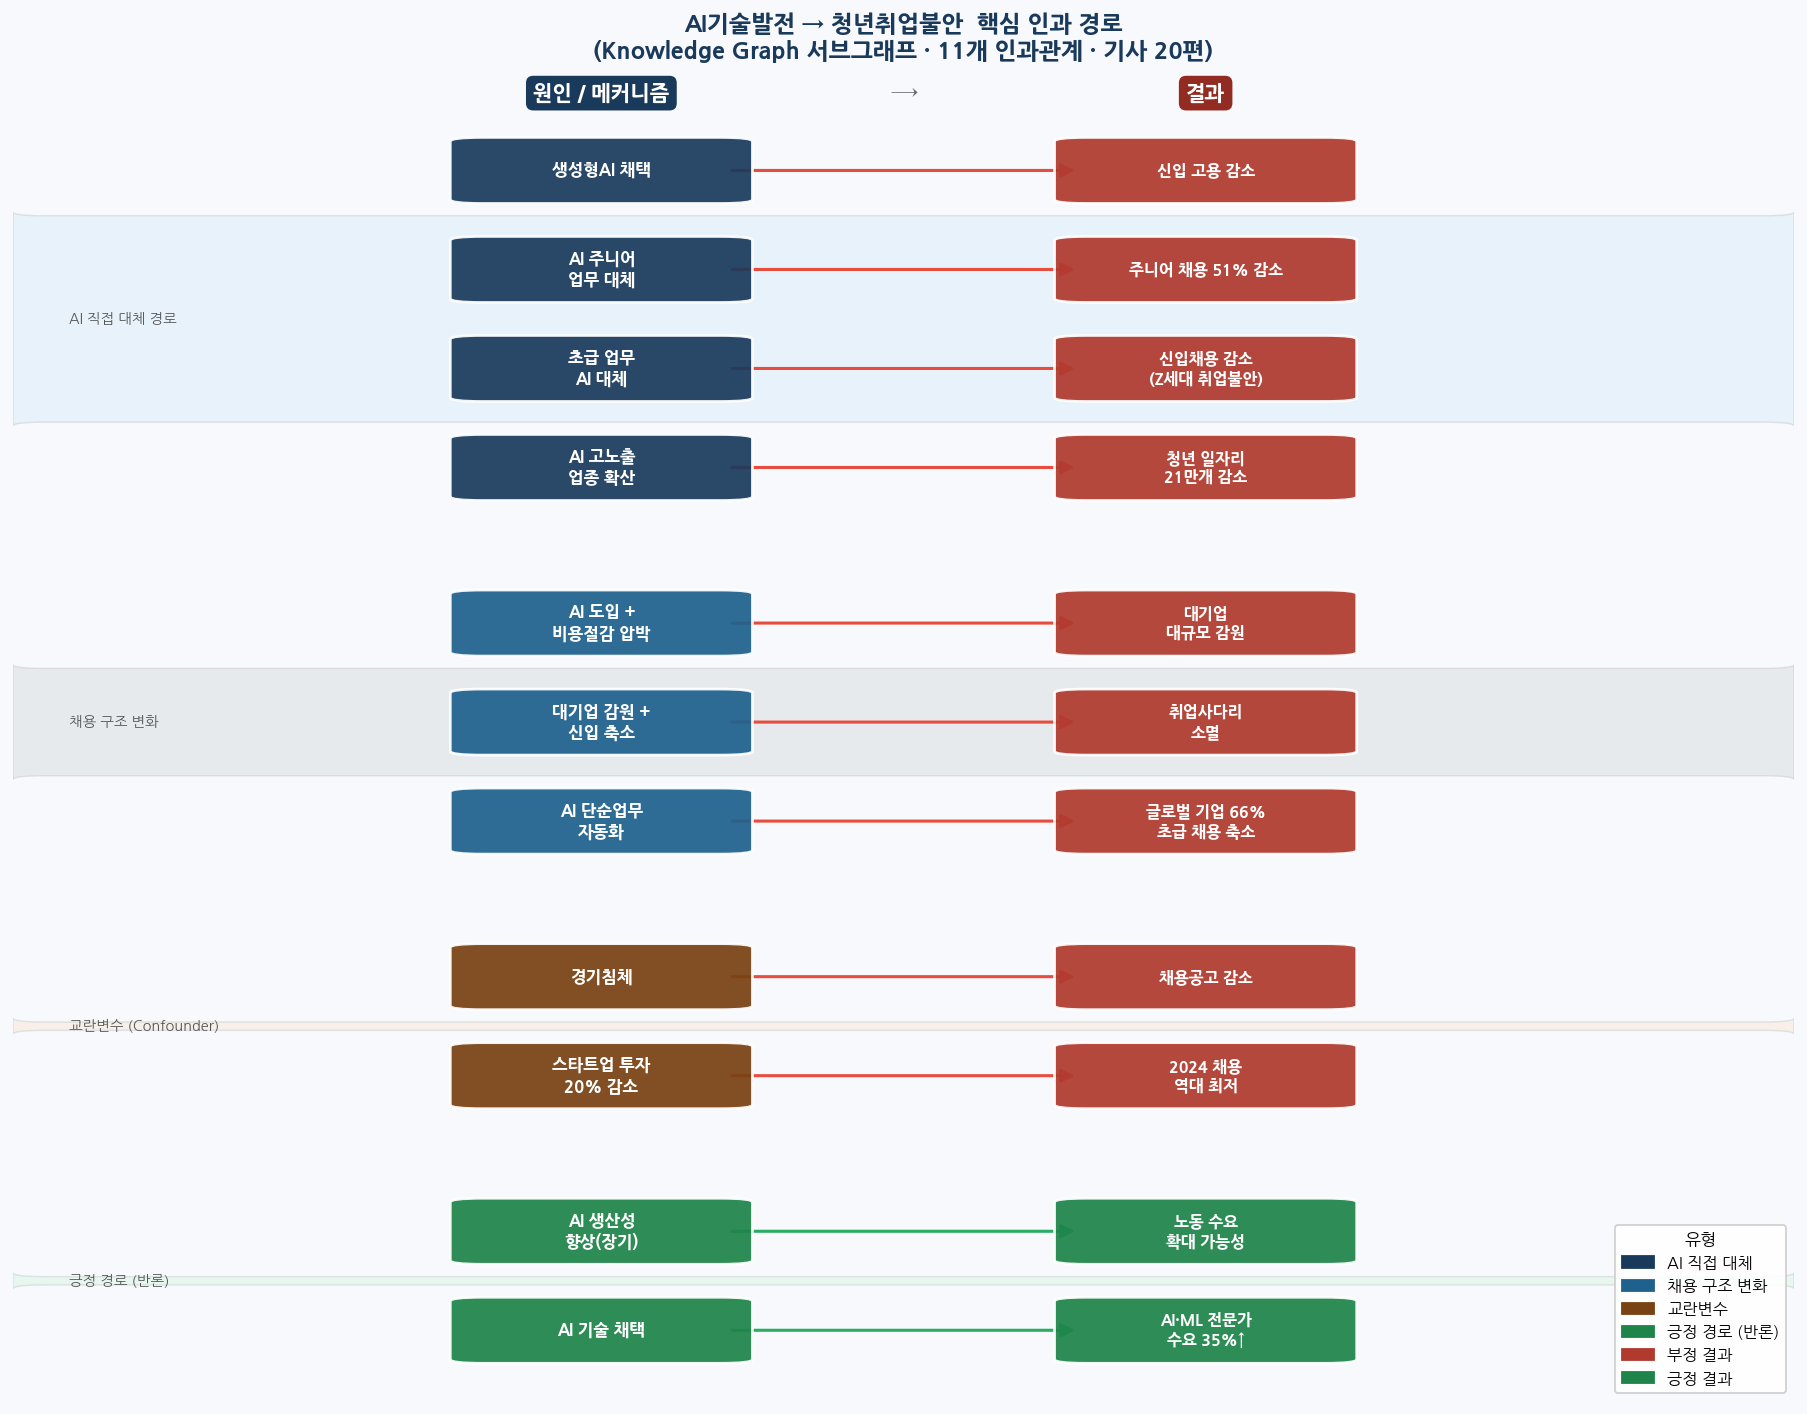
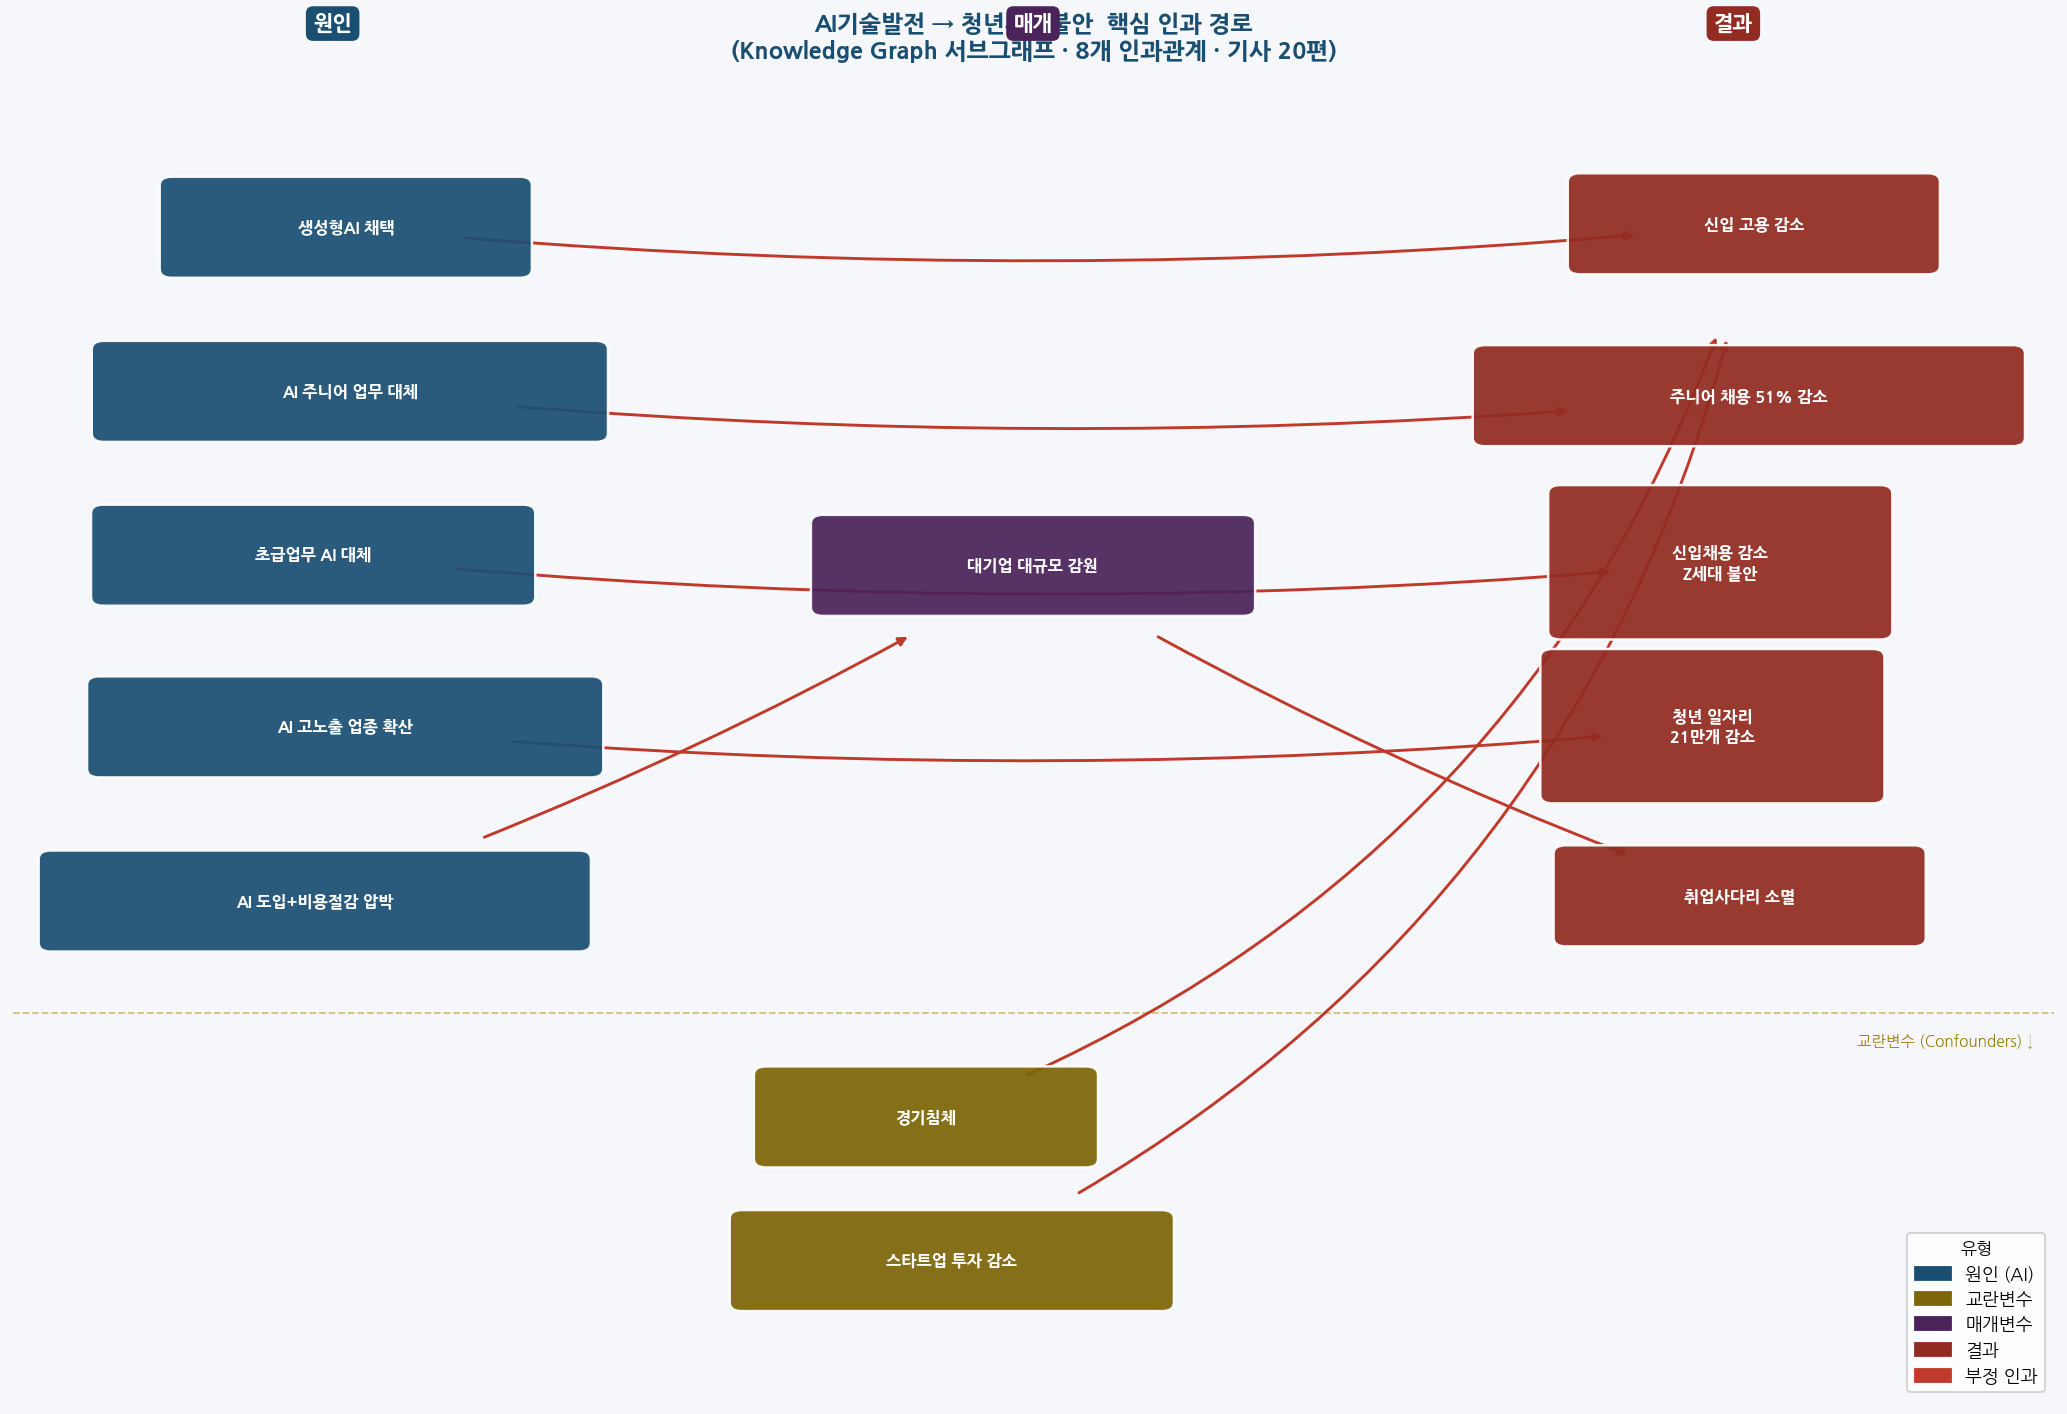
Redraw subgraph: text-fitted boxes, readable labels

diff --git a/draw_subgraph.py b/draw_subgraph.py
@@ -1,154 +1,173 @@
 """
-PPT용 서브그래프 — 고정 레이아웃 (14×11 인치)
+PPT용 서브그래프 — 노드를 텍스트 길이에 맞는 박스로 그리기
 """
-import koreanize_matplotlib  # noqa: F401
+import koreanize_matplotlib  # noqa
 import matplotlib.pyplot as plt
 import matplotlib.patches as mpatches
+import networkx as nx
+import numpy as np
 
-OUT = "/home/eunji/project/knowledge_graph/subgraph_ppt.png"
+OUT   = "/home/eunji/project/knowledge_graph/subgraph_ppt.png"
+KFONT = "NanumGothic"
 
-# ── 엣지 정의: (원인, 결과, 폴라리티, 그룹) ───────────────────────
-EDGES = [
-    # AI 직접 대체
-    ("생성형AI 채택",          "신입 고용 감소",                "neg", "AI"),
-    ("AI 주니어\n업무 대체",   "주니어 채용 51% 감소",          "neg", "AI"),
-    ("초급 업무\nAI 대체",     "신입채용 감소\n(Z세대 취업불안)","neg", "AI"),
-    ("AI 고노출\n업종 확산",   "청년 일자리\n21만개 감소",       "neg", "AI"),
-    # 채용 구조 변화
-    ("AI 도입 +\n비용절감 압박","대기업\n대규모 감원",           "neg", "채용"),
-    ("대기업 감원 +\n신입 축소","취업사다리\n소멸",              "neg", "채용"),
-    ("AI 단순업무\n자동화",     "글로벌 기업 66%\n초급 채용 축소","neg","채용"),
-    # 교란변수
-    ("경기침체",               "채용공고 감소",                 "neg", "conf"),
-    ("스타트업 투자\n20% 감소", "2024 채용\n역대 최저",          "neg", "conf"),
-    # 긍정 반론
-    ("AI 생산성\n향상(장기)",   "노동 수요\n확대 가능성",         "pos", "pos"),
-    ("AI 기술 채택",           "AI·ML 전문가\n수요 35%↑",       "pos", "pos"),
+# ── 노드 (라벨, 레이어, 역할) ─────────────────────────────────────
+NODES = [
+    ("생성형AI 채택",          0, "cause"),
+    ("AI 주니어 업무 대체",    0, "cause"),
+    ("초급업무 AI 대체",       0, "cause"),
+    ("AI 고노출 업종 확산",    0, "cause"),
+    ("AI 도입+비용절감 압박",  0, "cause"),
+    ("대기업 대규모 감원",     1, "med"),
+    ("신입 고용 감소",         2, "out"),
+    ("주니어 채용 51% 감소",   2, "out"),
+    ("신입채용 감소\nZ세대 불안", 2, "out"),
+    ("청년 일자리\n21만개 감소", 2, "out"),
+    ("취업사다리 소멸",        2, "out"),
+    ("경기침체",               3, "conf"),
+    ("스타트업 투자 감소",     3, "conf"),
 ]
 
-# ── 색상 ──────────────────────────────────────────────────────────
-CAUSE_COLOR = {"AI": "#1A3A5C", "채용": "#1F618D",
-               "conf": "#784212", "pos": "#1E8449"}
-EFF_COLOR   = {"neg": "#B03A2E", "pos": "#1E8449"}
-ARR_COLOR   = {"neg": "#E74C3C", "pos": "#27AE60"}
-BG_COLOR    = {"AI": "#D6EAF8", "채용": "#D5D8DC",
-               "conf": "#FAE5D3", "pos": "#D5F5E3"}
-GRP_LABEL   = {"AI": "AI 직접 대체 경로", "채용": "채용 구조 변화",
-               "conf": "교란변수 (Confounder)", "pos": "긍정 경로 (반론)"}
+EDGES = [
+    ("생성형AI 채택",        "신입 고용 감소",          "neg"),
+    ("AI 주니어 업무 대체",  "주니어 채용 51% 감소",    "neg"),
+    ("초급업무 AI 대체",     "신입채용 감소\nZ세대 불안","neg"),
+    ("AI 고노출 업종 확산",  "청년 일자리\n21만개 감소","neg"),
+    ("AI 도입+비용절감 압박","대기업 대규모 감원",       "neg"),
+    ("대기업 대규모 감원",   "취업사다리 소멸",          "neg"),
+    ("경기침체",             "신입 고용 감소",           "neg"),
+    ("스타트업 투자 감소",   "신입 고용 감소",           "neg"),
+]
 
-# ── 고정 Y 위치 계산 ──────────────────────────────────────────────
-SPACING   = 1.05   # 항목 간 y 간격
-GROUP_GAP = 0.60   # 그룹 간 추가 간격
-ORDER     = ["AI", "채용", "conf", "pos"]
+role_color = {
+    "cause": "#1B4F72",
+    "conf":  "#7D6608",
+    "med":   "#4A235A",
+    "out":   "#922B21",
+}
+arr_color = {"neg": "#C0392B", "pos": "#1E8449"}
 
-# 그룹별 항목
-from collections import OrderedDict
-grp_items = OrderedDict((g, []) for g in ORDER)
-for cause, eff, pol, grp in EDGES:
-    grp_items[grp].append((cause, eff, pol))
+# ── 그래프 ────────────────────────────────────────────────────────
+G = nx.DiGraph()
+for lbl, lay, role in NODES:
+    G.add_node(lbl, layer=lay, role=role)
+for s, t, pol in EDGES:
+    G.add_edge(s, t, pol=pol)
 
-# y 좌표 배정
-cy_map, ey_map = {}, {}
-grp_spans = {}
-y_cur = 0.0
+# ── 노드 위치 ─────────────────────────────────────────────────────
+rng = np.random.default_rng(42)
+X = {0: 0.0, 1: 3.5, 2: 7.0, 3: 3.0}   # 레이어 X 좌표
 
-for grp in ORDER:
-    items = grp_items[grp]
-    ys = []
-    for cause, eff, pol in items:
-        ys.append(-y_cur)
-        cy_map[cause] = -y_cur
-        ey_map[eff]   = -y_cur
-        y_cur += SPACING
-    grp_spans[grp] = (min(ys), max(ys))
-    y_cur += GROUP_GAP
+layer_nodes = {0: [], 1: [], 2: [], 3: []}
+for lbl, lay, role in NODES:
+    layer_nodes[lay].append(lbl)
 
-Y_MIN = -y_cur + GROUP_GAP + 0.3
-Y_MAX = 1.0
+pos = {}
+for lay, nodes in layer_nodes.items():
+    n = len(nodes)
+    for i, lbl in enumerate(nodes):
+        y = (n - 1) / 2.0 - i
+        jx = rng.uniform(-0.12, 0.12) if lay != 1 else 0
+        jy = rng.uniform(-0.06, 0.06)
+        # 교란변수는 아래쪽에 배치
+        base_y = y * 1.2 if lay != 3 else y * 1.0 - 4.5
+        pos[lbl] = (X[lay] + jx, base_y + jy)
+
+# ── 박스 크기 계산 (텍스트 길이 기반) ────────────────────────────
+def box_size(lbl):
+    lines = lbl.split("\n")
+    max_chars = max(len(l) for l in lines)
+    n_lines   = len(lines)
+    w = max(max_chars * 0.18 + 0.3, 1.6)
+    h = n_lines * 0.38 + 0.22
+    return w, h
 
 # ── 그리기 ────────────────────────────────────────────────────────
-fig, ax = plt.subplots(figsize=(14, 11))
-ax.set_facecolor("#F7F9FC")
-fig.patch.set_facecolor("#F7F9FC")
-ax.set_xlim(-0.62, 1.62)
-ax.set_ylim(Y_MIN, Y_MAX)
+fig, ax = plt.subplots(figsize=(16, 11))
+ax.set_facecolor("#F5F7FA")
+fig.patch.set_facecolor("#F5F7FA")
 ax.axis("off")
 
-NW, NH = 0.30, 0.62   # 노드 박스 크기
+# 교란변수 구분선
+ax.axhline(-3.2, color="#B7950B", lw=1.0, ls="--", alpha=0.55)
+ax.text(8.5, -3.35, "교란변수 (Confounders) ↓",
+        fontsize=8.5, color="#9A7D0A", fontstyle="italic",
+        fontfamily=KFONT, ha="right", va="top")
 
-def draw_box(cx, cy, label, fc, fs=9.2):
-    box = mpatches.FancyBboxPatch(
-        (cx - NW/2, cy - NH/2), NW, NH,
-        boxstyle="round,pad=0.04",
-        facecolor=fc, edgecolor="white", linewidth=1.5, zorder=3, alpha=0.93)
-    ax.add_patch(box)
-    ax.text(cx, cy, label, ha="center", va="center",
-            fontsize=fs, color="white", fontweight="bold",
-            zorder=4, linespacing=1.3, multialignment="center")
+# 엣지 — 노드 박스 경계에서 출발/도착하도록 invisible node로 먼저 그리기
+# (networkx 엣지는 pos 중심 기준으로 그려짐 → min_margin으로 조정)
+for s, t, pol in EDGES:
+    ws, hs = box_size(s)
+    wt, ht = box_size(t)
+    margin_s = max(ws, hs) * 28   # pixel 단위 근사
+    margin_t = max(wt, ht) * 28
+    sx, sy = pos[s]; tx, ty = pos[t]
+    is_conf = G.nodes[s]["role"] == "conf"
+    rad = 0.25 if is_conf else 0.05
+    ax.annotate(
+        "", xy=(tx, ty), xytext=(sx, sy),
+        arrowprops=dict(
+            arrowstyle="-|>",
+            color=arr_color[pol],
+            lw=1.6,
+            mutation_scale=10,
+            shrinkA=max(ws, hs) * 38,
+            shrinkB=max(wt, ht) * 38,
+            connectionstyle=f"arc3,rad={rad}",
+        ),
+        zorder=2,
+    )
 
-# 그룹 배경
-for grp in ORDER:
-    y_top, y_bot = grp_spans[grp]
-    pad = SPACING * 0.42
+# 노드 박스 + 라벨
+for lbl, lay, role in NODES:
+    x, y = pos[lbl]
+    w, h = box_size(lbl)
+    fc = role_color[role]
     rect = mpatches.FancyBboxPatch(
-        (-0.58, y_bot - pad), 2.16, (y_top - y_bot + pad*2),
-        boxstyle="round,pad=0.04",
-        facecolor=BG_COLOR[grp], edgecolor="#BFC9CA",
-        linewidth=0.8, zorder=0, alpha=0.45)
+        (x - w/2, y - h/2), w, h,
+        boxstyle="round,pad=0.06",
+        facecolor=fc, edgecolor="white",
+        linewidth=1.4, zorder=3, alpha=0.93)
     ax.add_patch(rect)
-    ax.text(-0.55, (y_top + y_bot) / 2,
-            GRP_LABEL[grp], ha="left", va="center",
-            fontsize=8, color="#555", fontstyle="italic", zorder=1)
+    ax.text(x, y, lbl,
+            ha="center", va="center",
+            fontsize=9.0, fontweight="bold",
+            color="white", fontfamily=KFONT,
+            multialignment="center", zorder=4,
+            linespacing=1.4)
 
-# 화살표
-X_CAUSE = 0.12
-X_EFF   = 0.88
-
-for cause, eff, pol, grp in EDGES:
-    cy_v = cy_map[cause]; ey_v = ey_map[eff]
-    col = ARR_COLOR[pol]
-    ax.annotate("",
-        xy=(X_EFF - NW/2 - 0.01, ey_v),
-        xytext=(X_CAUSE + NW/2 + 0.01, cy_v),
-        arrowprops=dict(arrowstyle="-|>", color=col,
-                        lw=1.7, mutation_scale=15,
-                        connectionstyle="arc3,rad=0.0"),
-        zorder=2)
-
-# 노드 그리기
-drawn_c, drawn_e = set(), set()
-for cause, eff, pol, grp in EDGES:
-    if cause not in drawn_c:
-        draw_box(X_CAUSE, cy_map[cause], cause, CAUSE_COLOR[grp])
-        drawn_c.add(cause)
-    if eff not in drawn_e:
-        draw_box(X_EFF, ey_map[eff], eff, EFF_COLOR[pol], fs=8.8)
-        drawn_e.add(eff)
-
-# 헤더
-for xh, lbl, fc in [(X_CAUSE, "원인 / 메커니즘", "#1A3A5C"),
-                     (X_EFF,   "결과",            "#922B21")]:
-    ax.text(xh, 0.82, lbl, ha="center", va="center",
-            fontsize=11.5, fontweight="bold", color="white",
-            bbox=dict(boxstyle="round,pad=0.35", fc=fc, ec="none"), zorder=5)
-ax.text(0.5, 0.82, "→", ha="center", va="center", fontsize=16, color="#666")
+# 컬럼 헤더
+for xv, txt, fc in [(0.0, "원인", "#1B4F72"),
+                     (3.5, "매개", "#4A235A"),
+                     (7.0, "결과", "#922B21")]:
+    ax.text(xv, 3.8, txt, ha="center",
+            fontsize=11.5, fontweight="bold",
+            color="white", fontfamily=KFONT,
+            bbox=dict(boxstyle="round,pad=0.35",
+                      fc=fc, ec="none"), zorder=5)
 
 # 범례
 leg = [
-    mpatches.Patch(color="#1A3A5C", label="AI 직접 대체"),
-    mpatches.Patch(color="#1F618D", label="채용 구조 변화"),
-    mpatches.Patch(color="#784212", label="교란변수"),
-    mpatches.Patch(color="#1E8449", label="긍정 경로 (반론)"),
-    mpatches.Patch(color="#B03A2E", label="부정 결과"),
-    mpatches.Patch(color="#1E8449", label="긍정 결과"),
+    mpatches.Patch(color="#1B4F72", label="원인 (AI)"),
+    mpatches.Patch(color="#7D6608", label="교란변수"),
+    mpatches.Patch(color="#4A235A", label="매개변수"),
+    mpatches.Patch(color="#922B21", label="결과"),
+    mpatches.Patch(color="#C0392B", label="부정 인과"),
 ]
 ax.legend(handles=leg, loc="lower right", fontsize=9,
-          framealpha=0.9, title="유형", title_fontsize=9.5)
+          framealpha=0.88, title="유형", title_fontsize=9.5,
+          prop={"family": KFONT})
 
 ax.set_title(
     "AI기술발전 → 청년취업불안  핵심 인과 경로\n"
-    "(Knowledge Graph 서브그래프 · 11개 인과관계 · 기사 20편)",
-    fontsize=13, fontweight="bold", pad=10, color="#1A3A5C")
+    "(Knowledge Graph 서브그래프 · 8개 인과관계 · 기사 20편)",
+    fontsize=13, fontweight="bold", pad=14,
+    color="#1B4F72", fontfamily=KFONT)
+
+# 축 범위 자동 조정
+all_x = [p[0] for p in pos.values()]
+all_y = [p[1] for p in pos.values()]
+ax.set_xlim(min(all_x) - 1.5, max(all_x) + 1.5)
+ax.set_ylim(min(all_y) - 1.0, max(all_y) + 1.0)
 
 plt.tight_layout()
 plt.savefig(OUT, dpi=130, bbox_inches="tight")